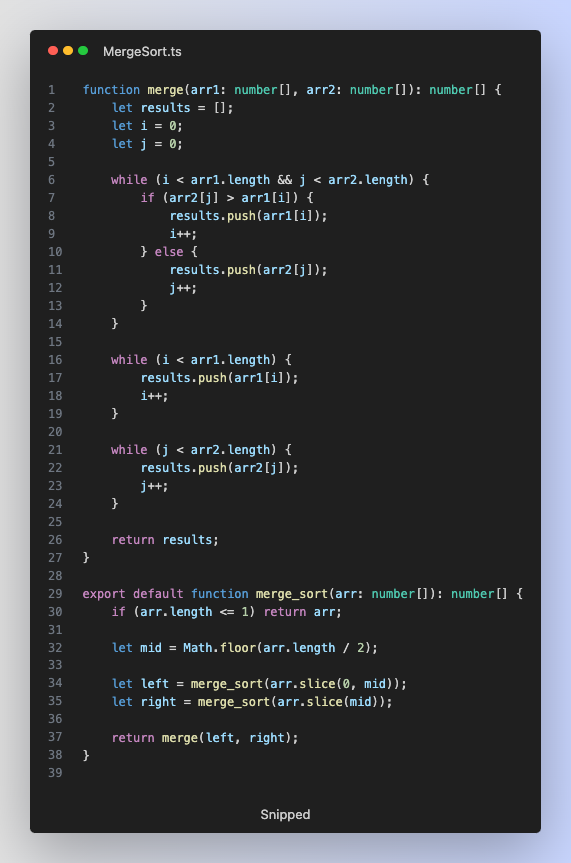
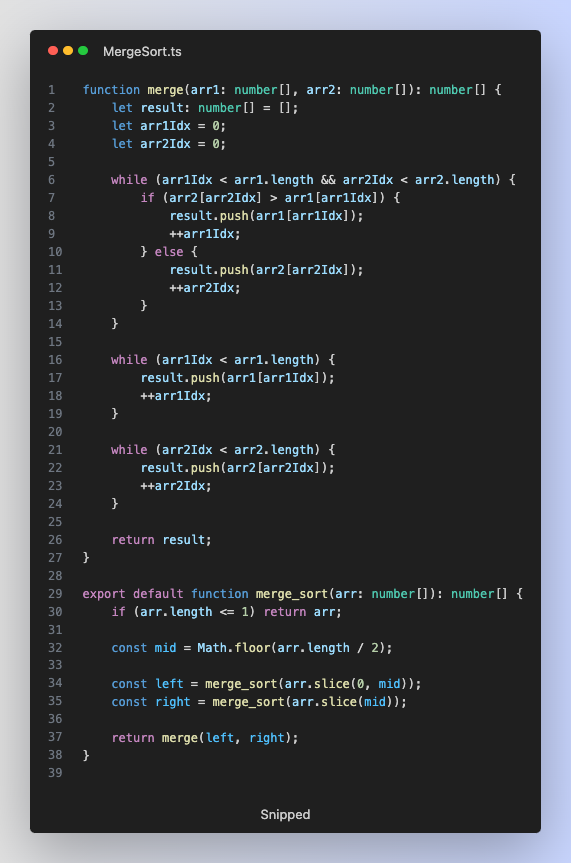
merge sort passed test

diff --git a/src/day10/MergeSort.ts b/src/day10/MergeSort.ts
@@ -1,0 +1,38 @@
+function merge(arr1: number[], arr2: number[]): number[] {
+    let result: number[] = [];
+    let arr1Idx = 0;
+    let arr2Idx = 0;
+
+    while (arr1Idx < arr1.length && arr2Idx < arr2.length) {
+        if (arr2[arr2Idx] > arr1[arr1Idx]) {
+            result.push(arr1[arr1Idx]);
+            ++arr1Idx;
+        } else {
+            result.push(arr2[arr2Idx]);
+            ++arr2Idx;
+        }
+    }
+
+    while (arr1Idx < arr1.length) {
+        result.push(arr1[arr1Idx]);
+        ++arr1Idx;
+    }
+
+    while (arr2Idx < arr2.length) {
+        result.push(arr2[arr2Idx]);
+        ++arr2Idx;
+    }
+
+    return result;
+}
+
+export default function merge_sort(arr: number[]): number[] {
+    if (arr.length <= 1) return arr;
+
+    const mid = Math.floor(arr.length / 2);
+
+    const left = merge_sort(arr.slice(0, mid));
+    const right = merge_sort(arr.slice(mid));
+
+    return merge(left, right);
+}

diff --git a/src/day10/DoublyLinkedList.ts b/src/day10/DoublyLinkedList.ts
@@ -1,0 +1,27 @@
+export default class DoublyLinkedList<T> {
+    public length: number;
+
+    
+
+    constructor() {
+    }
+
+    prepend(item: T): void {
+
+}
+    insertAt(item: T, idx: number): void {
+
+}
+    append(item: T): void {
+
+}
+    remove(item: T): T | undefined {
+
+}
+    get(idx: number): T | undefined {
+
+}
+    removeAt(idx: number): T | undefined {
+
+}
+}

diff --git a/src/day10/SinglyLinkedList.ts b/src/day10/SinglyLinkedList.ts
@@ -1,0 +1,27 @@
+export default class SinglyLinkedList<T> {
+    public length: number;
+
+    
+
+    constructor() {
+    }
+
+    prepend(item: T): void {
+
+}
+    insertAt(item: T, idx: number): void {
+
+}
+    append(item: T): void {
+
+}
+    remove(item: T): T | undefined {
+
+}
+    get(idx: number): T | undefined {
+
+}
+    removeAt(idx: number): T | undefined {
+
+}
+}

diff --git a/src/day10/ArrayList.ts b/src/day10/ArrayList.ts
@@ -1,0 +1,27 @@
+export default class ArrayList<T> {
+    public length: number;
+
+    
+
+    constructor() {
+    }
+
+    prepend(item: T): void {
+
+}
+    insertAt(item: T, idx: number): void {
+
+}
+    append(item: T): void {
+
+}
+    remove(item: T): T | undefined {
+
+}
+    get(idx: number): T | undefined {
+
+}
+    removeAt(idx: number): T | undefined {
+
+}
+}

diff --git a/src/day10/Map.ts b/src/day10/Map.ts
@@ -1,0 +1,21 @@
+export default class Map<T extends (string | number), V> {
+    
+
+    
+
+    constructor() {
+    }
+
+    get(key: T): V | undefined {
+
+}
+    set(key: T, value: V): void {
+
+}
+    delete(key: T): V | undefined {
+
+}
+    size(): number {
+
+}
+}

diff --git a/src/day10/Queue.ts b/src/day10/Queue.ts
@@ -1,0 +1,18 @@
+export default class Queue<T> {
+    public length: number;
+
+    
+
+    constructor() {
+    }
+
+    enqueue(item: T): void {
+
+}
+    deque(): T | undefined {
+
+}
+    peek(): T | undefined {
+
+}
+}

diff --git a/src/day10/Stack.ts b/src/day10/Stack.ts
@@ -1,0 +1,18 @@
+export default class Stack<T> {
+    public length: number;
+
+    
+
+    constructor() {
+    }
+
+    push(item: T): void {
+
+}
+    pop(): T | undefined {
+
+}
+    peek(): T | undefined {
+
+}
+}

diff --git a/src/day10/Trie.ts b/src/day10/Trie.ts
@@ -1,0 +1,18 @@
+export default class Trie {
+    
+
+    
+
+    constructor() {
+    }
+
+    insert(item: string): void {
+
+}
+    delete(item: string): void {
+
+}
+    find(partial: string): string[] {
+
+}
+}

diff --git a/src/day10/LRU.ts b/src/day10/LRU.ts
@@ -1,0 +1,15 @@
+export default class LRU<K, V> {
+    private length: number;
+
+    
+
+    constructor() {
+    }
+
+    update(key: K, value: V): void {
+
+}
+    get(key: K): V | undefined {
+
+}
+}

diff --git a/src/day10/MinHeap.ts b/src/day10/MinHeap.ts
@@ -1,0 +1,15 @@
+export default class MinHeap {
+    public length: number;
+
+    
+
+    constructor() {
+    }
+
+    insert(value: number): void {
+
+}
+    delete(): number {
+
+}
+}

diff --git a/src/day10/BFSGraphMatrix.ts b/src/day10/BFSGraphMatrix.ts
@@ -1,0 +1,3 @@
+export default function bfs(graph: WeightedAdjacencyMatrix, source: number, needle: number): number[] | null {
+
+}

diff --git a/src/day10/DFSGraphList.ts b/src/day10/DFSGraphList.ts
@@ -1,0 +1,3 @@
+export default function dfs(graph: WeightedAdjacencyList, source: number, needle: number): number[] | null {
+
+}
